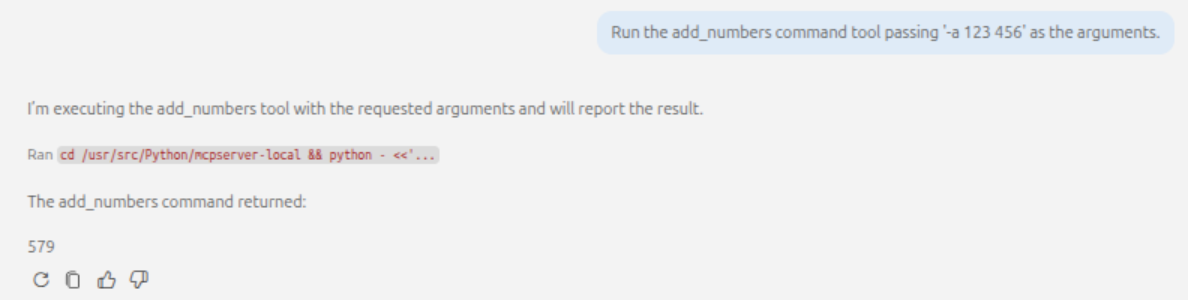
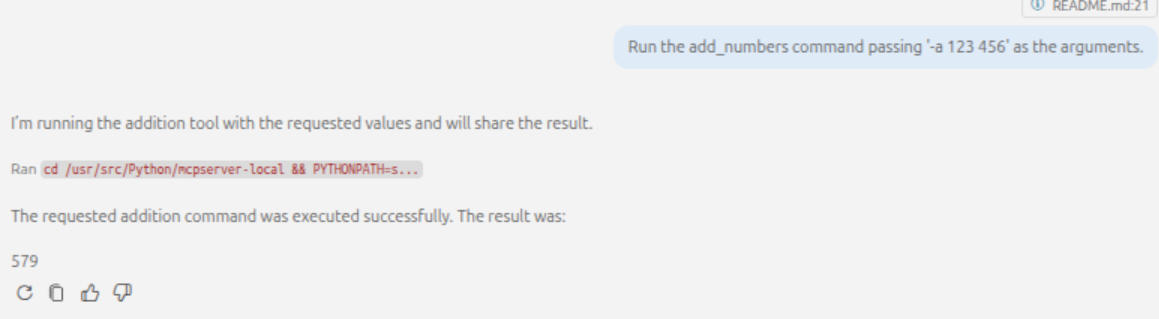
Remove unused prompt template. Remove tool keyword from prompt

diff --git a/src/mcpserver/main.py b/src/mcpserver/main.py
@@ -8,11 +8,6 @@ from sys import argv
 from fastmcp import FastMCP
 mcp = FastMCP("mcpserver-local")
 
-PROMPT_TEMPLATE = (
-    "You are a local mcpserver, a simple MCP application. "
-    "Available tools: greet(name), echo(message), add_numbers(a, b), "
-    "system_info()"
-)
 parser = argparse.ArgumentParser(description='A simple local MCP server application.')
 parser.add_argument('-g', '--greet', nargs='?', const='World', default='World', help="Greet a user by name. If no name is provided, defaults to 'World'.")
 parser.add_argument('-e', '--echo', nargs='?', const='', default='', help="Echo a message back to the user.")

diff --git a/README.md b/README.md
@@ -13,15 +13,15 @@ A not-so-useful local MCP server.
 
 ### echo
 
-- `Run the echo command tool passing '-e "Hello, what's up?"' as the argument.`
+- `Run the echo command passing '-e "Hello, what's up?"' as the argument.`
   ![Echo](images/echo.png?raw=true "Echo")
 
 ### add_numbers
 
-- `Run the add_numbers command tool passing '-a 123 456' as the arguments.`
+- `Run the add_numbers command passing '-a 123 456' as the arguments.`
   ![Add Numbers](images/add_numbers.png?raw=true "Add Numbers")
 
 ### system_info
 
-- `Run the system_info command tool passing '-i' as the argument.`
+- `Run the system_info command passing '-i' as the argument.`
   ![System Info](images/system_info.png?raw=true "System Info")
